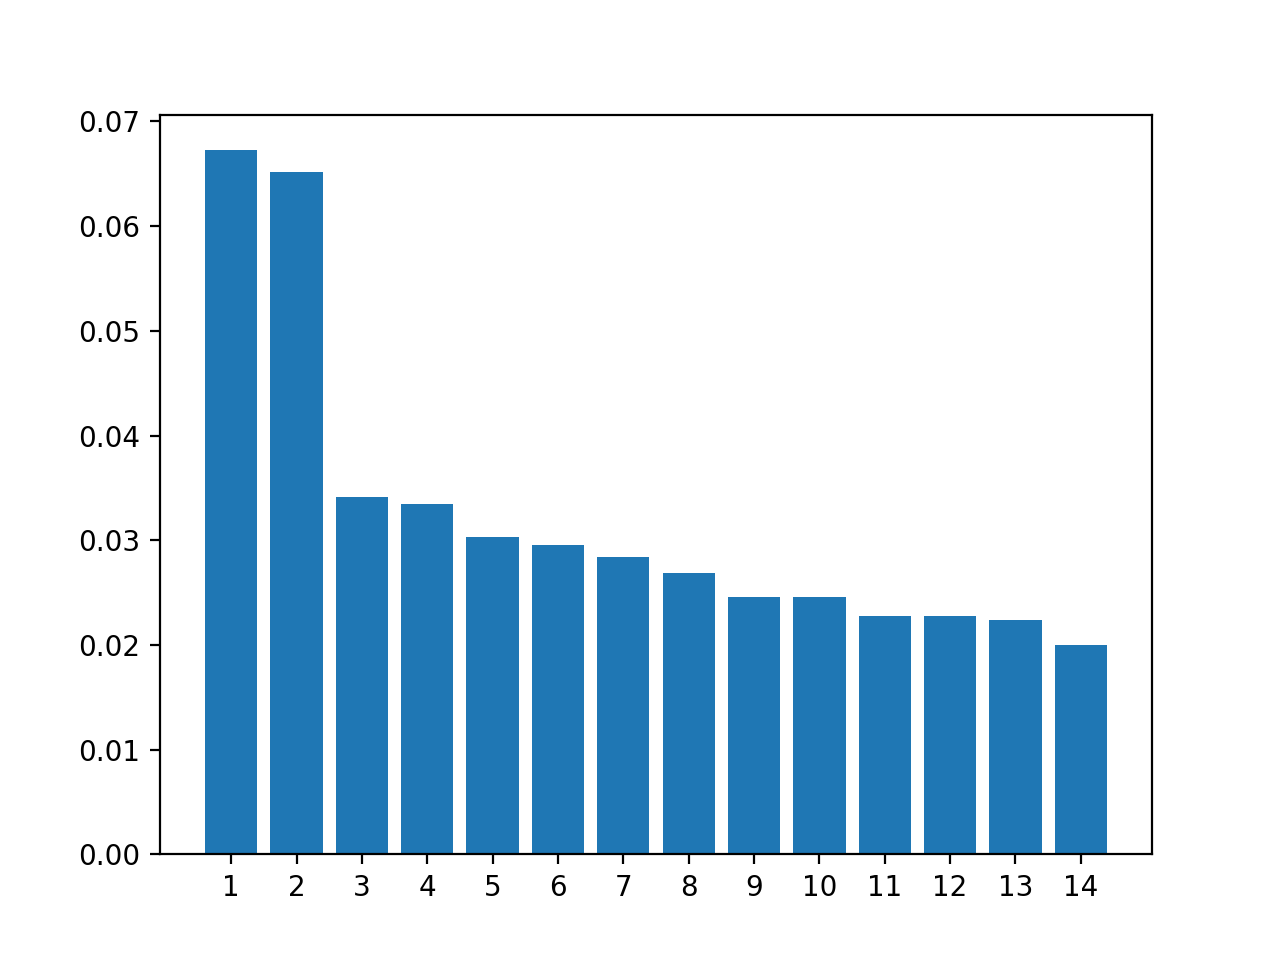
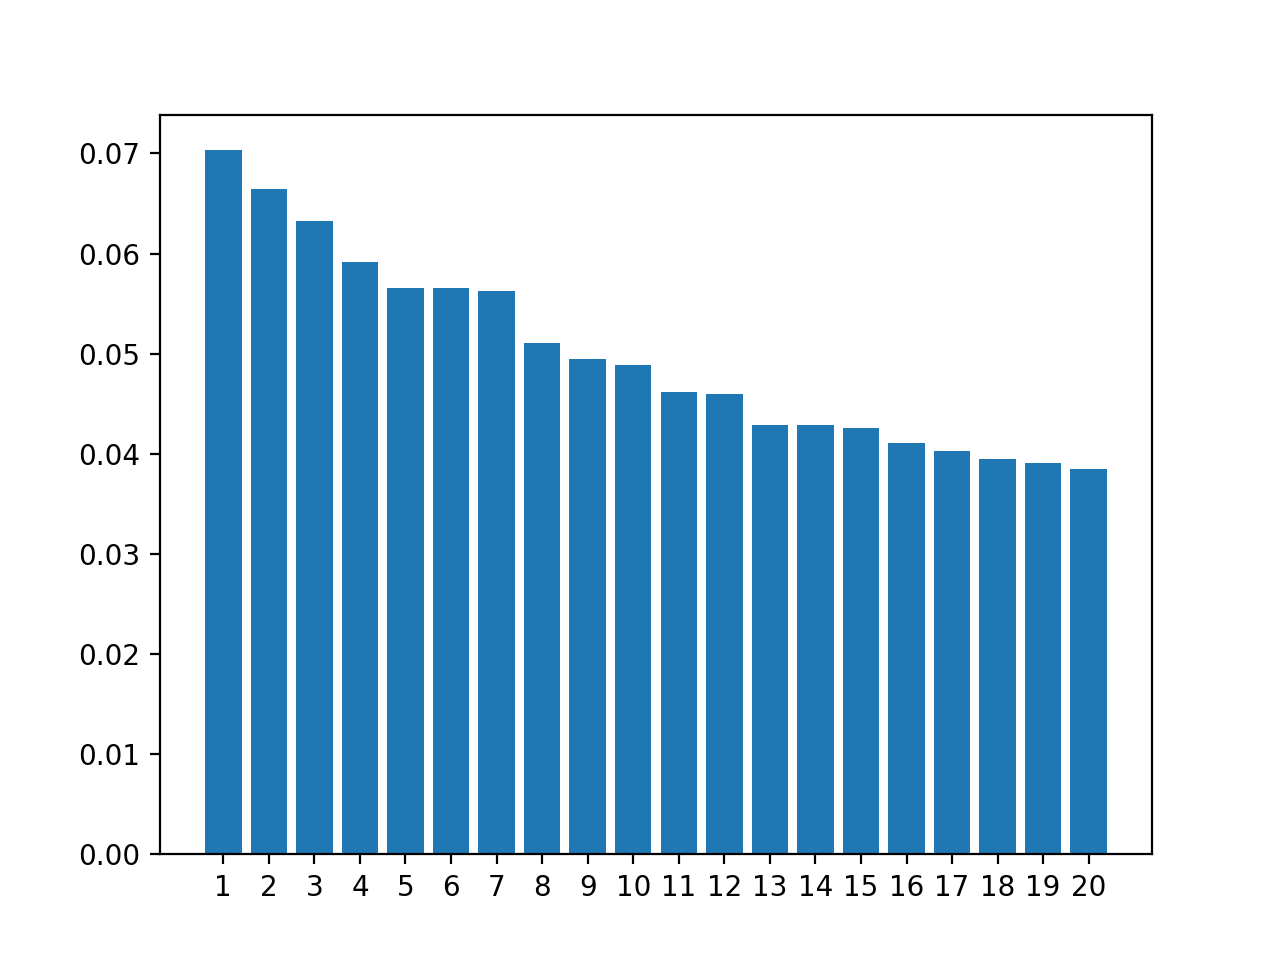
changes to .html file

diff --git a/plague_project/templates/plague.html b/plague_project/templates/plague.html
@@ -10,22 +10,36 @@ h3 {text-align: center;}
 h1 {text-align: center;}
 p {text-align: center;}
 form {text-align: center;}
+table {text-align: center;}
 
 input.bar {background-color: snow;border-radius: 12px;font-family: 'Courier New', Courier, monospace;font-size: smaller;}
 input.bar:focus {
     outline: none;
     border:3px solid gainsboro;
 }
-input.button {background-color: snow;border-radius: 12px;font-family: 'Courier New', Courier, monospace;font-size: smaller;}
-body {background-color:mistyrose;font-family: 'Courier New', monospace;}
+input.button {
+    background-color: snow;
+    border-radius: 12px;
+    font-family: 'Courier New', Courier, monospace;
+    font-size: smaller;
+}
+
+body {
+    background-color:mistyrose;
+    font-family: 'Courier New', monospace;
+}
 
 table, th, td {
   border: 1px hidden;
-  border-collapse: collapse;
-  border-radius: 21px;
+  border-radius: 10px;
   background-color: snow;
 }
+
+table.center {
+  margin-left: auto; 
+  margin-right: auto;
 }
+
 th, td {
   padding-top: 30px;
   padding-bottom: 20px;
@@ -46,16 +60,17 @@ th, td {
     <p>  
     {% if matches is defined and matches|length > 0 %}
 
-we were able to find <b>{{matches|length}}</b> total matches to {{ query }} :
+we were able to match <b>{{matches|length}}</b> movie(s) to <b>{{ search_query }}</b>:
     </p>
     <p>
 <td><img src="/static/bar_graph.png" style="width: 400px; height 100%"></td>  
+    {% if matches|length < 20 %}
         <table>
             <tr>
                 <th>best match</th>
-                <th>Name of Article</th>
+                <th>Movie</th>
                 <th>Year</th>
-                <th>Content ... </th>
+                <th>Dialogue</th>
             </tr>
             {% for item in matches %}
                 <tr>
@@ -63,7 +78,7 @@ we were able to find <b>{{matches|length}}</b> total matches to {{ query }} :
                         {{ item['score'][:5] }} 
                     </td>
                     <td style="color:red;">
-                        {{ item['movie'] }}
+                        {{ item['name'] }}
                     </td>
                     <td>
                         {{ item['year'] }}
@@ -74,6 +89,36 @@ we were able to find <b>{{matches|length}}</b> total matches to {{ query }} :
                 </tr>
             {% endfor %}
          </table>
+    {% else %}
+<p>
+these are the 20 best matches:
+</p>
+        <table>
+            <tr>
+                <th>best match</th>
+                <th>Movie</th>
+                <th>Year</th>
+                <th>Dialogue</th>
+            </tr>
+            {% for item in matches[:20] %}
+                <tr>
+                    <td>
+                        {{ item['score'][:5] }}
+                    </td>
+                    <td style="color:red;">
+                        {{ item['name'] }}
+                    </td>
+                    <td>
+                        {{ item['year'] }}
+                    </td>
+                    <td>
+                        {{ item['dialogue'][:1000] }}
+                    </td>
+                </tr>
+            {% endfor %}
+         </table>
+there are {{matches|length - 20}} matches left! 
+    {% endif %} 
     {% else %}
        
 we beg of you, enter a query

diff --git a/plague_project/corpus_prep.py b/plague_project/corpus_prep.py
@@ -17,11 +17,14 @@ ft.close()
 def prep():
 # stripping unnecessary content into a file like: movie (m), charachter (NAME), line (str)
     lines_stripped = {}
+    character_lines = []
     for item in lines:
         new_item = re.sub(r'[\+$]{7} ', '', item)
-        new_m = re.sub(r'L\d{1,6} u\d{1,4} (m\d{1,3}) .+', r'\1', new_item)
-        new_c = re.sub(r'L\d{1,6} u\d{1,4} m\d{1,3} ([A-Z\s]+) .+', r'\1', new_item)
-        new_l = re.sub(r'L\d{1,6} u\d{1,4} m\d{1,3} ([A-Z\s]+) (.+)', r'\2', new_item)
+        new_item = re.sub(r'L\d{1,6} u\d{1,4} ', r'', new_item)
+        new_m = re.sub(r'(m\d{1,3}) .+', r'\1', new_item)
+        new_c = re.sub(r'm\d{1,3} ([A-Z]+(\.-)?(\s:[A-Z]{2,12})?) .+', r'\1', new_item)
+        new_l = re.sub(r'm\d{1,3} ([A-Z\s:\.]+) (.+)', r'\2', new_item)
+
 
         # this creates a list of with ONLY the lines (in a list!)
         if lines_stripped.get(new_m):
@@ -30,14 +33,24 @@ def prep():
             lines_stripped[new_m] = [new_l]
 
 
-    """ if you want the characters and lines (in a dictionary) use this code! """
-        #if lines_stripped.get(new_m):
-        #    lines_stripped[new_m].append({'character': new_c, 'line': new_l})
-        #else:
-        #    lines_stripped[new_m] = [new_l]
+
+#        if lines_stripped.get(new_c):
+#            lines_stripped[new_c].append(new_l)
+#        else:
+#            lines_stripped[new_c] = [new_l]
+
+#        if lines_stripped.get(new_m):
+#            lines_stripped[new_m].append({'character': new_c, 'line': new_l})
+#       else:
+#            lines_stripped[new_m] = [new_l]
 
 
-        #print(lines_stripped['m3'])
+        #for i in lines_stripped:
+        #    if i['character'] == new_c:
+        #        character_lines
+#    print(lines_stripped[0])
+
+    print(lines_stripped)
 
 
     # new structure -> movie number (m), movie name (), year (), genres(['x', 'y'])
@@ -46,17 +59,19 @@ def prep():
         new_item = re.sub(r'[\+$]{7} ', '', item)
         t_nr = re.sub(r'(m\d{1,3}).+', r'\1', new_item)
         t_name = re.sub(r'm\d{1,3} [\+$]{7} (.+) ', r'\1', item)
-        t_year = re.sub(r'.+ [\+$]{7} (\d{4}) .+', r'\1', t_name)
+        t_year = re.sub(r'.+ [\+$]{7} ((19|20)\d{2})\/?I? .+', r'\1', t_name)
         t_name = re.sub(r'[\+$]{7} .+', '', t_name)
         t_genre = re.sub(r'.+ (\[)', r'\1', new_item)
 
-        movies_list.append({'movie': t_nr, 'name': t_name, 'year': t_year, 'genres': t_genre, 'dialogue': ' '.join(lines_stripped[t_nr])})
+        movies_list.append({'movie': t_nr, 'name': t_name, 'year': t_year, 'genres': t_genre})
 
 #    print(movies_list[1]['dialogue'])
-    movies = []
-    for i in movies_list:
-        movies.append(i['dialogue'])
+#    movies = []
+#    for i in movies_list:
+#        movies.append((i['year'], i['name']))
 
-    print(movies[600:602])
+#    print(movies[600:602])
+#    for j in movies:
+#        print(j)
 
 prep()

diff --git a/plague_project/plague_engine.py b/plague_project/plague_engine.py
@@ -30,6 +30,7 @@ for article in soup.find_all('article'):
 for i,j in zip(name_list, content_list):
     list.append(dict({"article": i, "contents": j, "ranked value": '', 'hits in document': ''}))
 """
+
 F_LINES = "data/movies/movie_lines.txt"
 F_TITLES = "data/movies/movie_titles_metadata.txt"
 
@@ -48,9 +49,10 @@ def prep():
     lines_stripped = {}
     for item in lines:
         new_item = re.sub(r'[\+$]{7} ', '', item)
-        new_m = re.sub(r'L\d{1,6} u\d{1,4} (m\d{1,3}) .+', r'\1', new_item)
-        new_c = re.sub(r'L\d{1,6} u\d{1,4} m\d{1,3} ([A-Z\s]+) .+', r'\1', new_item)
-        new_l = re.sub(r'L\d{1,6} u\d{1,4} m\d{1,3} ([A-Z\s]+) (.+)', r'\2', new_item)
+        new_item = re.sub(r'L\d{1,6} u\d{1,4} ', r'', new_item)
+        new_m = re.sub(r'(m\d{1,3}) .+', r'\1', new_item)
+        new_c = re.sub(r'm\d{1,3} ([A-Z\s0-9]+) [A-Za-z.]+', r'\1', new_item)
+        new_l = re.sub(r'm\d{1,3} ([A-Z\s]+) (.+)', r'\2', new_item)
 
         # this creates a list of with ONLY the lines (in a list!)
         if lines_stripped.get(new_m):
@@ -59,7 +61,7 @@ def prep():
             lines_stripped[new_m] = [new_l]
 
 
-    """ if you want the characters and lines (in a dictionary) use this code! """
+        #if you want the characters and lines (in a dictionary) use this code!
         #if lines_stripped.get(new_m):
         #    lines_stripped[new_m].append({'character': new_c, 'line': new_l})
         #else:
@@ -73,9 +75,9 @@ def prep():
     movies_list = []
     for item in titles:
         new_item = re.sub(r'[\+$]{7} ', '', item)
-        t_nr = re.sub(r'(m\d{1,3}).+', r'\1', new_item)
+        t_nr = re.sub(r'(m\d{1,3}) .+', r'\1', new_item)
         t_name = re.sub(r'm\d{1,3} [\+$]{7} (.+) ', r'\1', item)
-        t_year = re.sub(r'.+ [\+$]{7} (\d{4}) .+', r'\1', t_name)
+        t_year = re.sub(r'.+ [\+$]{7} ((19|20)\d{2})\/?I? .+', r'\1', t_name)
         t_name = re.sub(r'[\+$]{7} .+', '', t_name)
         t_genre = re.sub(r'.+ (\[)', r'\1', new_item)
 
@@ -124,4 +126,4 @@ def search():
         fig.savefig('static/bar_graph.png', dpi=200)
 
 # Renders the HTML file and imports the variable 'matches'
-    return render_template('plague.html', matches=matches)
+    return render_template('plague.html', matches=matches, search_query=search_query)
